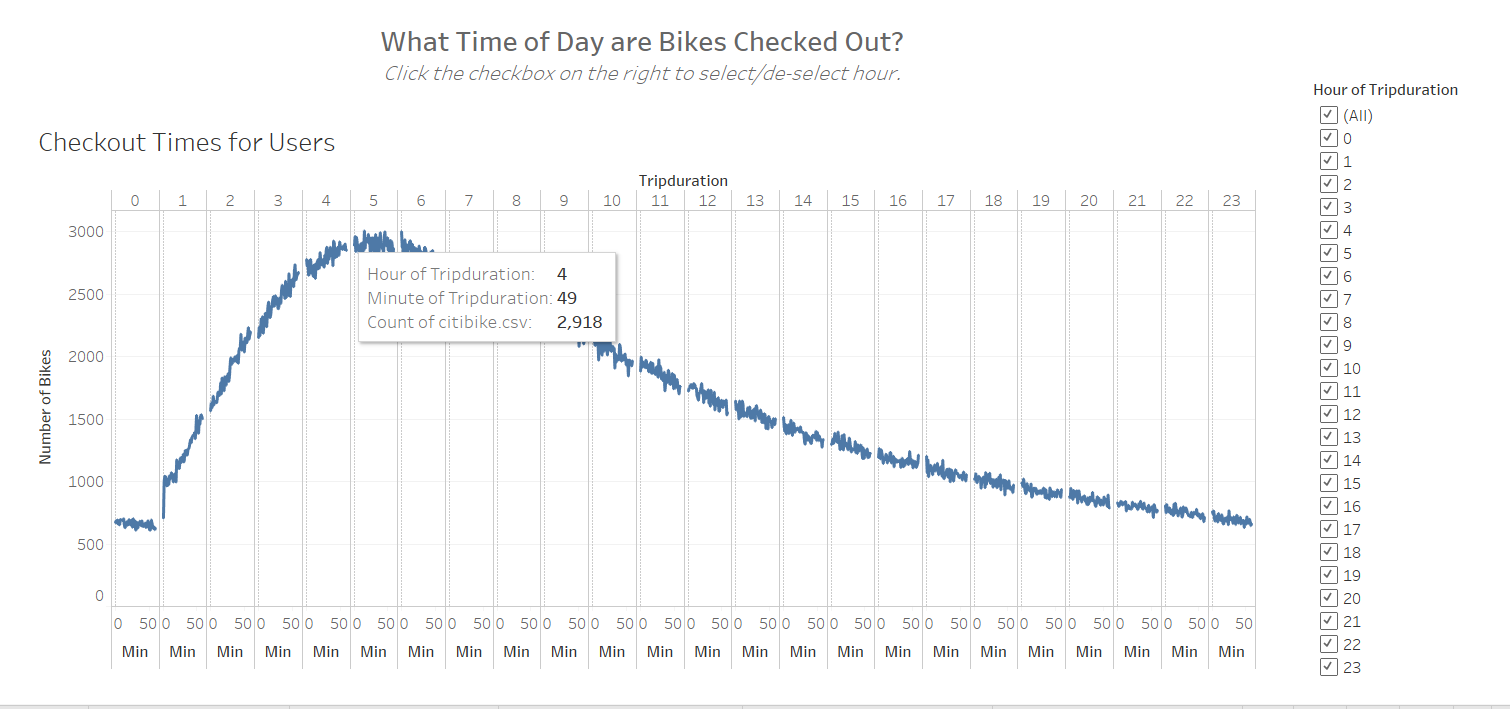
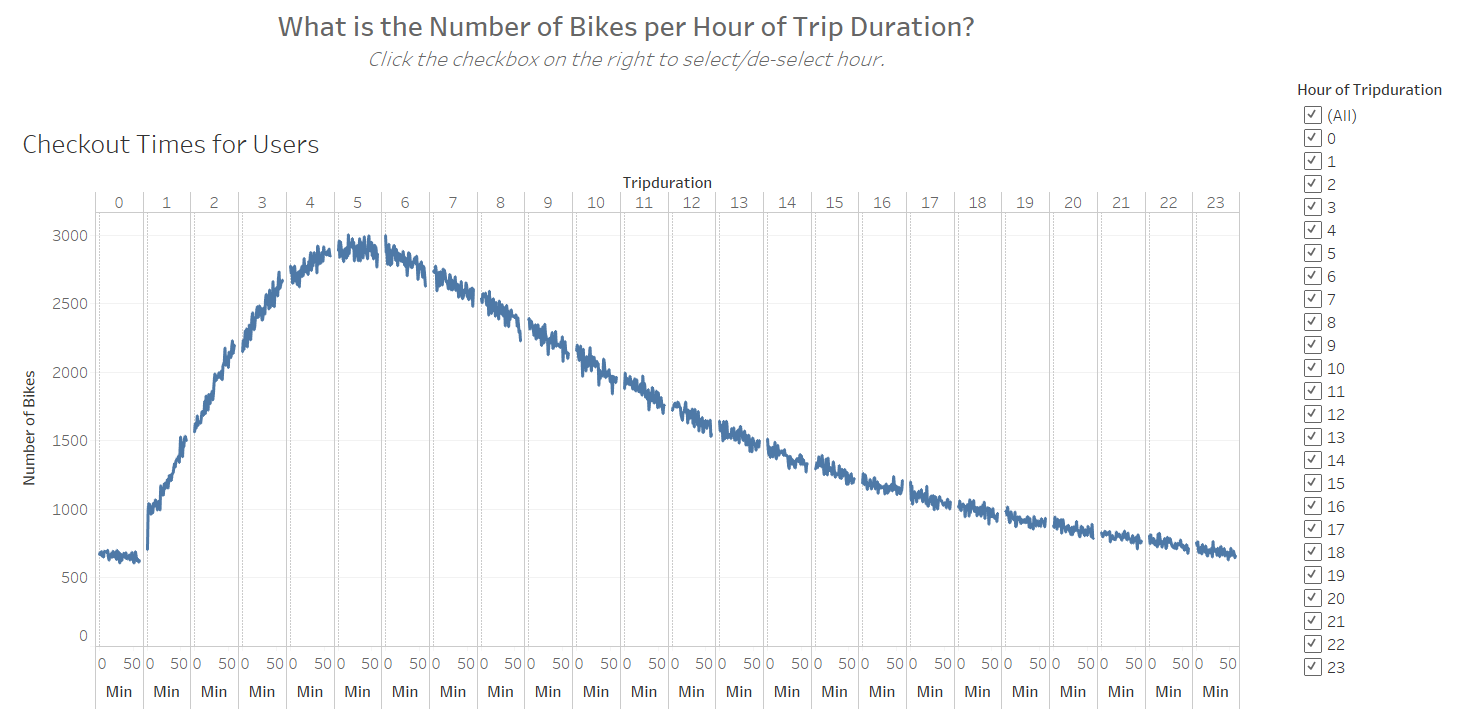
commit on Jan 5

diff --git a/README.md b/README.md
@@ -12,34 +12,56 @@ Here are the various story pages I presented in an attempt to answer 6 questions
 
 - Who uses the bike-sharing program? 
 
-  - There were over 2 million trips in one month. More than 3/4 of them were subscribers, and less than 1/4 were per-trip users.
+  - There were over 2 million trips in one month. 
 
+  - More than 3/4 of the users were subscribers, and less than 1/4 were customers.
+  
+  - About 3/4 of the users were male and 1/4 female.
+  
     ![](./Resources/whouses.png)  
   
-- What is the utilization of the bike-sharing program?
+- What is the number of bikes per hour of trip duration?
+
+  - The most number of bikes are checked out between 5 and 6am.
+	- Actual trip duration varies.
+	- ![](./Resources/checkouttime.png)  
+
+
+- What is the number of bikes per hour of trip duration by gender?
+
+  - For males, the highest number of bikes were checked out between 5 and 6am.
+  - For females, the highest number of bikes were checked out between 5 and 7am.
+  - For both females and unknown, usage is much more flat than the male usage.
+
+  ![](./Resources/checkoutgender.png)
+
   
-  - Most of the utilization is made during the morning and evening rush-hours, and on weekends.
+
+- What is the number of trips by weekday for each hour?
+  
+  - The largest number of trips are done Thursday evenings between 5 and 7pm. 
   
   
   ![](./Resources/utilization.png)  
   
-- What time of day are bikes checked out?
 
-  - Bikes are checked out most often during morning and evening rush hours, and on weekends.
-      	 ![](./Resources/checkouttime.png)  
 
-- What time of day are bikes checked out by gender?
+	
+- What is the number of trips by weekday for each hour by gender?
 	
-	- Bikes are checked out by gender.... ![](./Resources/checkoutgender.png)  
-	
-- What are the trips by gender (weekday per hour)?
-	
-	- The same pattern exists for both genders which is checkout during morning and evening rush-hours, and on weekends. 
+	- For males and females, checkout is highest on Thursday afternoons between 5 and 7pm.
+		
+	- For males and females, the second highest checkout time is around 8am on weekdays. 
+		
+	- For unknowns, the highest usage time is on weekends.
+		
+		
 		 ![](./Resources/tripsbygender.png)  
 	
-- What are the user trips by gender by weekday?
+- What is the number of trips by weekday by gender or usertype?
 
-  - Males have the most user trips by 
+  - Male subscribers have the highest number of trips by far over female subscribers.
+  - Male and female customers (per-trip users) do not vary greatly; their numbers are close.
 
 
    ![](./Resources/tripsbygenderbywkday.png)  
@@ -50,19 +72,21 @@ Here are the various story pages I presented in an attempt to answer 6 questions
 ## Summary
 #### What are the conclusions and suggestions for future analysis?
 
-To summarize, bikes are used most often:
+To summarize:
 
-- By males
-- During rush-hours and on weekends
+- Bikes are used most often by males.
+- Bikes are used most often during commute hours, especially evenings. The busiest time of the week is Thursday evenings.
+- When reviewing the subscriber model, males showed far more usage than females.
+- When reviewing the customer (per-use) model, males and females showed similar usage.
 
 Here are some additional visualizations that could be made using the same data set:
 
-- How many trips per day are being made by gender.
+- The number of trips per day for the genders and usertypes.
+- Number of trips by user's birth year.
+- Using a calculation based on latitude and longitude, calculate the average distance per trip.
 
-- Breakdown of customers vs subscribers by gender.
+The link to my public Tableau dashboard is here: 
 
-The link to my public Tableau story is here: 
-
-https://public.tableau.com/profile/amy.tieku#!/vizhome/Module14Challenge2/Bike-SharingAnalysis
+https://public.tableau.com/profile/amy.tieku#!/vizhome/Module14Challenge2/Bike-SharingAnalysis?publish=yes
 
   
